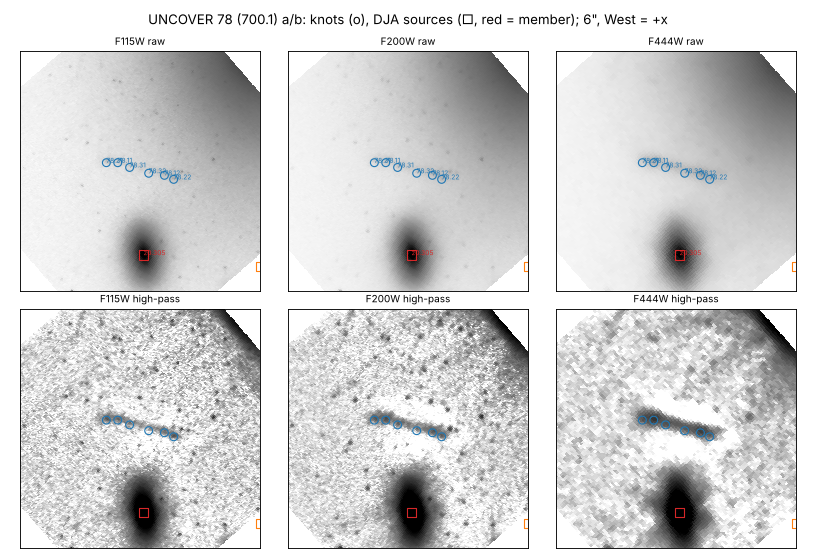
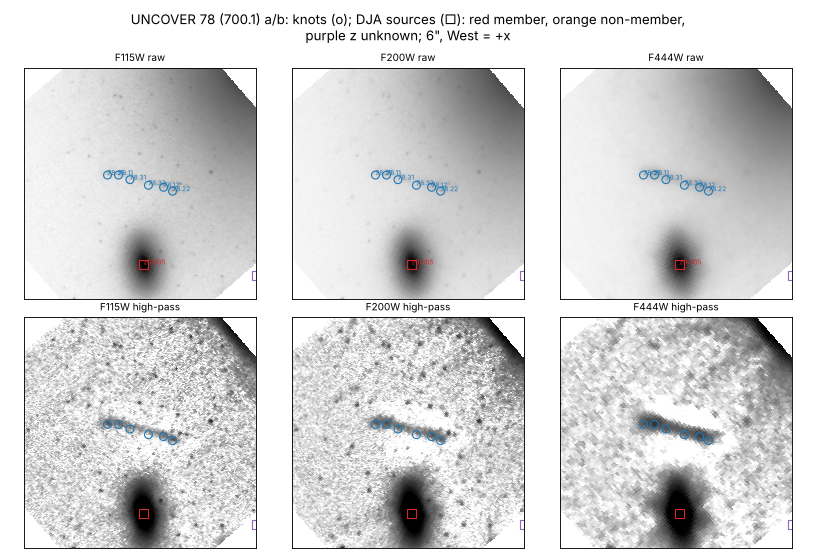
700.1 vetting: fifth review round (faint unknown-z sources are not perturbers, not_assessed key, z sentinel stored as null, sheet colours, labels), re-run; outcome unchanged
Claude-Session: https://claude.ai/code/session_012djKdnczmKMTxDTAtWUNHz

diff --git a/scripts/a2744_s700_vet.py b/scripts/a2744_s700_vet.py
@@ -110,7 +110,10 @@ def differs(p: float | None, at_edge: bool | None = False) -> bool | None:
 
 def classify_perturber(member: bool | None, mag: float) -> bool | None:
     """True: member brighter than MAG_PERTURBER; None ("not assessed", post hoc): membership
-    unknown (no usable z) or a member without a measurable magnitude; False otherwise."""
+    unknown (no usable z) or a member without a measurable magnitude; False otherwise, including
+    any source too faint to be a perturber whatever its z."""
+    if np.isfinite(mag) and mag >= MAG_PERTURBER:
+        return False
     if member is None:
         return None
     if not member:
@@ -242,12 +245,13 @@ def perturbers(zout: Table, ra0: float, dec0: float) -> list[dict]:
             z = zs if zs > 0 else float(zout["z_phot"][k])
             mag = total_mag(float(zout["ra"][k]), float(zout["dec"][k]), stamp)
             # eazy marks failed fits with z < 0: membership unknown (None), not "non-member"
-            member = bool(abs(z - Z_CLUSTER) <= DZ_MEMBER) if np.isfinite(z) and z >= 0 else None
+            usable = bool(np.isfinite(z) and z >= 0)
+            member = bool(abs(z - Z_CLUSTER) <= DZ_MEMBER) if usable else None
             rows.append(
                 {
                     "dja_id": int(zout["id"][k]),
                     "sep_arcsec": _r(d[k], 2),
-                    "z": _r(z, 3),
+                    "z": _r(z, 3) if usable else None,  # eazy's failure sentinel is not a z
                     "z_type": "spec" if zs > 0 else "phot",
                     "z160_z840": [_r(float(zout["z160"][k]), 3), _r(float(zout["z840"][k]), 3)],
                     "f200w_mag_crude": _r(mag, 2),
@@ -297,7 +301,8 @@ def sheet(pos: dict, summary: dict, zout: Table, path: Path) -> None:
             for r in zout[sel]:
                 dx = -(float(r["ra"]) - ra0) * cos * 3600.0
                 dy = (float(r["dec"]) - dec0) * 3600.0
-                col = "tab:red" if near[int(r["id"])]["member"] else "tab:orange"
+                m = near[int(r["id"])]["member"]
+                col = {True: "tab:red", False: "tab:orange"}.get(m, "tab:purple")
                 ax.scatter(dx, dy, marker="s", s=70, facecolors="none", edgecolors=col)
                 if i == 0:
                     ax.annotate(f"z{near[int(r['id'])]['z']}", (dx, dy), fontsize=6, color=col)
@@ -307,7 +312,10 @@ def sheet(pos: dict, summary: dict, zout: Table, path: Path) -> None:
             ax.set_xticks([])
             ax.set_yticks([])
             ax.set_title(f"{band.upper()} {'raw' if i == 0 else 'high-pass'}", fontsize=9)
-    fig.suptitle('UNCOVER 78 (700.1) a/b: knots (o), DJA sources (□, red = member); 6", West = +x')
+    fig.suptitle(
+        "UNCOVER 78 (700.1) a/b: knots (o); DJA sources (□): red member, orange non-member,\n"
+        'purple z unknown; 6", West = +x'
+    )
     fig.tight_layout()
     fig.savefig(path, dpi=80)
     plt.close(fig)
@@ -419,7 +427,7 @@ def main(argv=None) -> dict:
         "any_target_pair_differs": any_diff,
         "perturbers": pert,
         "perturber_found": has_pert,
-        "members_not_assessed": [p["dja_id"] for p in pert if p["perturber"] is None],
+        "not_assessed": [p["dja_id"] for p in pert if p["perturber"] is None],
         "outcome": decide(gate, any_diff, has_pert),
         "photometry": {
             band: {

diff --git a/tests/test_a2744_s700_vet.py b/tests/test_a2744_s700_vet.py
@@ -73,6 +73,7 @@ def test_perturber_flags_tri_state():
     assert s7v.decide(False, False, None).endswith("member perturber not assessed)")
     assert s7v.decide(True, False, None) == "undetermined (member perturber not assessed)"
     assert s7v.classify_perturber(None, 18.0) is None
+    assert s7v.classify_perturber(None, 27.0) is False  # too faint whatever its z
 
 
 def test_grid_edge_is_not_measurable():

diff --git a/results/lens_consistency/a2744_s700_vet/RESULT.md b/results/lens_consistency/a2744_s700_vet/RESULT.md
@@ -9,7 +9,8 @@ photo-z `model_prediction`); lens-model components are `model_prediction` inputs
 
 1. **Colour test not validated.** Of the 56 spec-z UNCOVER knot sub-systems ("S.K"; `n_known_candidates`), the
    first 20 pairs with F200W S/N ≥ 10 in both images were tested. These 20 come from 10 distinct sources
-   (`n_tested_sources`), so they are correlated knots of a few galaxies, not 20 independent systems; only 10 / 20 (0.5) read "consistent" at p ≥ 0.01, below the 0.8 gate (ASSUMPTION). With
+   (`n_tested_sources`), so they are correlated knots of a few galaxies, not 20 independent systems; only
+   10 / 20 (0.5) read "consistent" at p ≥ 0.01, below the 0.8 gate (ASSUMPTION). With
    r = 0.15″ high-pass apertures and random-aperture noise, true multiple images often differ by more than the
    noise (χ² up to 254 for 7 bands; `known_pairs`). So "consistent" colours for 78 decide nothing.
    For the record (not a decision): the three 78 a/b pairs give p 0.96, 0.93, 0.68 (`target_pairs`).
@@ -39,9 +40,10 @@ systematic floor calibrated on known pairs first.
 **Deviations (labelled).** Post hoc: the `--model-check` block and the sheet's stretch (vmax 10 → 5 σ, display only).
 After `/code-review` (post hoc, before the final run), these were fixed: the pixel solid angle of the crude
 magnitude (hypot, for the rotated mosaic); NaN S/N no longer passes the known-pair cut; an unmeasurable target pair
-is "not measurable", never "consistent" (either image without flux, or a ratio fit at the 10⁻³ / 10³ grid edge);
-a member without a measurable magnitude, or a source without a usable z (eazy z < 0), is "not assessed", not "no
-perturber"; the ratio search covers 10⁻³–10³ instead of a bracket around Σf_a/Σf_b. Both "not measurable" and "not
+is "not measurable", never "consistent" (either image without flux, or a ratio fit at the 10⁻³ / 10³ grid edge;
+this edge rule also drops such known pairs from the gate denominator, a post hoc change; none occurred in this run);
+a member without a measurable magnitude, or a source without a usable z (eazy z < 0 or not finite), is "not
+assessed", not "no perturber"; the ratio search covers 10⁻³–10³ instead of a bracket around Σf_a/Σf_b. Both "not measurable" and "not
 assessed" are new, post hoc `decide` branches (`perturber_found` is tri-state). The crude magnitudes changed with
 the pixel-scale fix (≈ 20.4 → 19.7 and 18.6 → 18.0; the old values are in commit 36e95a7's `summary.json`).
 `summary.json` is from the run with these fixes; the outcome is unchanged.
@@ -50,7 +52,8 @@ the pixel-scale fix (≈ 20.4 → 19.7 and 18.6 → 18.0; the old values are in 
 78 knots it also covers the other knots of the same arc; that inflates σ and favours "consistent" for the target
 (one reason the target p values decide nothing). The crude magnitude is a 0.5″ aperture minus a local median, not
 a total magnitude; it is null where the local median exceeds the aperture, as for the photo-z member DJA 42356
-(z_phot 0.346, 3.92″, 68 % interval 0.316–6.867), which is therefore "not assessed". Three further sources within 5″ have no usable eazy z (z < 0) and are also
-"not assessed"; `members_not_assessed` lists all four.
+(z_phot 0.346, 3.92″, 68 % interval 0.316–6.867), which is therefore "not assessed". Sources within 5″
+without a usable eazy z (z < 0 or not finite) that are not too faint to matter are also "not assessed"
+(`not_assessed`; their z is stored as null).
 Target pairs have no S/N cut (the known pairs do); this cannot change the outcome while the gate fails. Both flagged
 perturbers are spec-z members. The UNCOVER model's member list was not checked.
